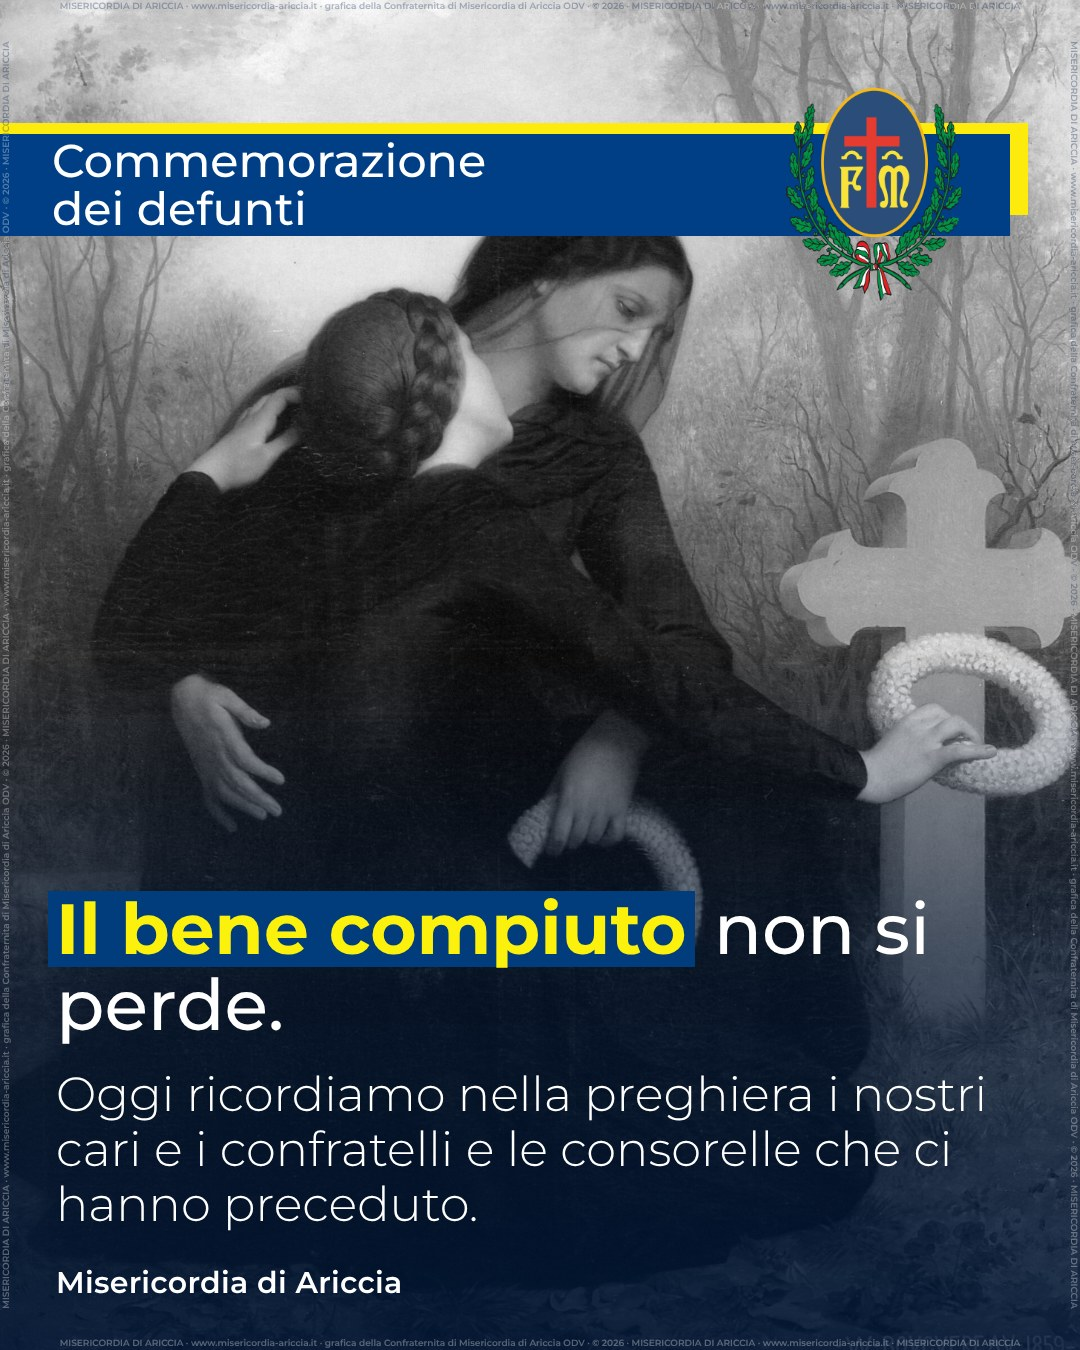
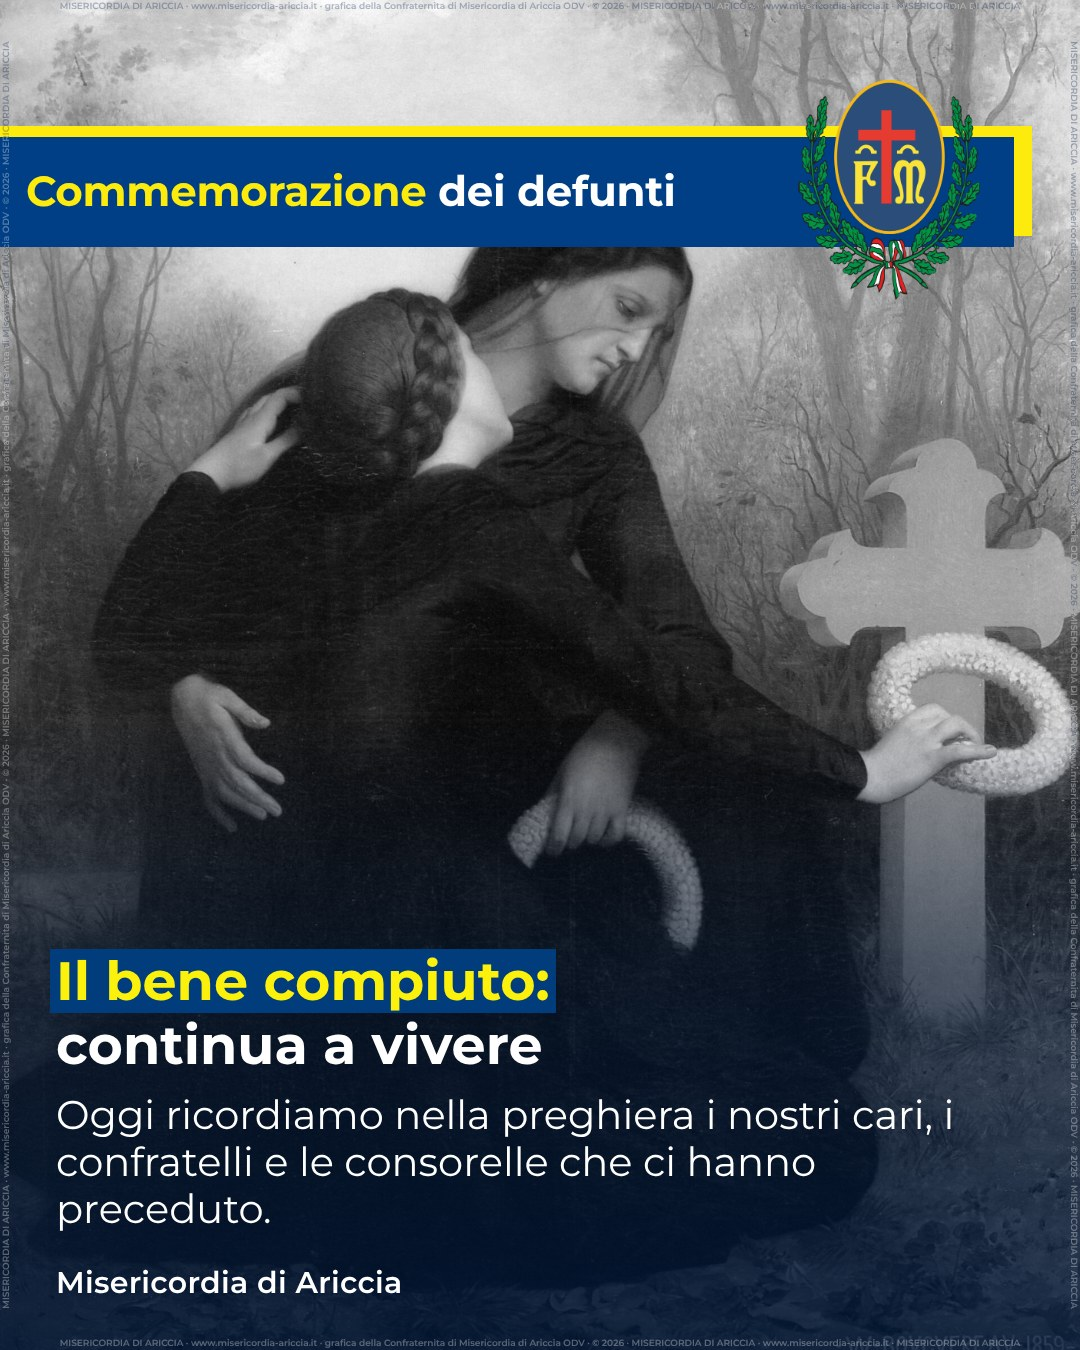
Modello post-giornata, come i post nazionali delle ricorrenze; grafica dei defunti rifatta con il modello nuovo

Changed region(s): [[0.0306, 0.6533, 0.8861, 0.9022], [0.0, 0.0622, 0.9778, 0.2178]]

diff --git a/scripts/grafica-brand/modelli-nazionali/post-giornata.html b/scripts/grafica-brand/modelli-nazionali/post-giornata.html
@@ -1,0 +1,39 @@
+<!doctype html>
+<html lang="it">
+<head>
+<meta charset="utf-8">
+<meta name="formato" content="1080x1350">
+<title>Post di una giornata</title>
+<link rel="stylesheet" href="base.css">
+</head>
+<body>
+<!--
+Post di una giornata, 1080×1350 px. Modello dei post nazionali delle ricorrenze e delle giornate (Commemorazione dei
+defunti, Tutti i Santi, giornate internazionali: account Instagram misericordieitalia, settembre-novembre 2026), rifatto
+per la Misericordia di Ariccia il 2/11/2026. Fascia con il nome della giornata, prima parte in giallo e resto in bianco;
+titolo su due righe, la prima evidenziata e chiusa dai due punti; una frase sotto.
+Campi (attributo data-campo):
+  foto           foto    foto o opera che evoca la giornata; foto-posizione per il ritaglio (es. 50% 30%), foto-zoom da 1 a 2, foto-alt per la descrizione
+  giornata       testo   prima parte del nome della giornata, in giallo (Commemorazione, Festa, Giornata internazionale)
+  giornata-resto testo   resto del nome, in bianco (dei defunti); \n all'inizio per mandarlo sulla seconda riga
+  evidenziato    testo   prima riga del titolo, sul fondo blu, di solito chiusa dai due punti (Il bene compiuto:)
+  titolo         testo   seconda riga del titolo (continua a vivere)
+  sottotitolo    testo   una frase sulla giornata, al massimo quattro righe
+Si compila e si salva con .claude/skills/grafiche-modelli-nazionali/rendi.py: istruzioni in LEGGIMI.md.
+-->
+<div class="tavola" style="width: 1080px; height: 1350px; position: relative; overflow: hidden; background: #0B2550; font-family: Montserrat, sans-serif">
+<img data-campo="foto" data-prova src="foto-prova/piazza-di-corte.jpg" alt="[Descrizione della foto]" style="position: absolute; left: 0; top: 0; width: 100%; height: 100%; object-fit: cover; object-position: 50% 50%">
+<div style="position: absolute; left: 0; right: 0; bottom: 0; height: 640px; background: linear-gradient(180deg, rgba(0, 22, 54, 0) 0%, rgba(0, 22, 54, 0.45) 40%, rgba(0, 22, 54, 0.8) 100%)"></div>
+<div style="position: absolute; left: 0; top: 126px; width: 1032px; height: 110px; background: var(--giallo)"></div>
+<div data-riquadro data-ostacolo style="position: absolute; left: 0; top: 137px; width: 1014px; height: 110px; box-sizing: border-box; padding: 0 230px 0 26px; background: var(--blu); display: flex; align-items: center">
+<span style="font-weight: 700; font-size: 42px; line-height: 1.08; letter-spacing: -0.3px; white-space: nowrap"><span data-campo="giornata" style="color: var(--giallo)">[Giornata]</span> <span data-campo="giornata-resto" style="color: #FFFFFF">[nome]</span></span>
+</div>
+<img data-logo src="loghi/stemma-misericordie.png" alt="Stemma della Confederazione Nazionale delle Misericordie d'Italia" style="position: absolute; left: 798px; top: 80px; width: 182px; height: auto">
+<div data-riquadro style="position: absolute; left: 56px; right: 60px; bottom: 118px; max-height: 560px; display: flex; flex-direction: column; gap: 14px">
+<p style="margin: 0; font-weight: 700; font-size: 54px; line-height: 64px; color: #FFFFFF"><span data-campo="evidenziato" style="display: inline-block; height: 64px; padding: 0 6px; margin-left: -6px; background: #013C7C; color: #FCF10C; white-space: nowrap">[Prima riga:]</span><br><span data-campo="titolo">[seconda riga]</span></p>
+<p data-campo="sottotitolo" style="margin: 0; font-weight: 400; font-size: 40px; line-height: 47px; color: #FFFFFF">[Una frase sulla giornata]</p>
+</div>
+<div class="firma" data-firma style="left: 56px; bottom: 52px; color: #FFFFFF; text-shadow: 0 1px 6px rgba(0, 22, 54, 0.6)">Misericordia di Ariccia</div>
+</div>
+</body>
+</html>

diff --git a/scripts/grafica-brand/modelli-nazionali/LEGGIMI.md b/scripts/grafica-brand/modelli-nazionali/LEGGIMI.md
@@ -12,6 +12,7 @@ La cartella non va online: Hugo non pubblica `scripts/`. Quando usarli e come si
 |---|---|---|
 | `post-con-fascia.html` | 1080×1350 | Post su un tema (volontariato, Servizio civile, un servizio, un corso): foto piena, fascia blu con il tema e lo stemma, titolo in basso con le prime parole evidenziate |
 | `post-con-fascia-due-righe.html` | 1080×1350 | Lo stesso, con il tema su due righe (giornate mondiali e nazionali) |
+| `post-giornata.html` | 1080×1350 | Post di una ricorrenza o di una giornata (Defunti, Tutti i Santi, giornate internazionali), come quelli nazionali dal 2026: nome della giornata in giallo e bianco nella fascia, titolo su due righe con la prima evidenziata e i due punti, una frase sotto |
 | `storia-con-fascia.html` | 1080×1920 | Storia di Instagram e Facebook con gli stessi elementi |
 | `post-testimonianza.html` | 1080×1350 | Una frase vera di chi fa servizio, con la sua foto scontornata |
 | `carosello-copertina.html` | 1080×1350 | Prima pagina di un carosello («Cosa facciamo» o un altro tema) |
